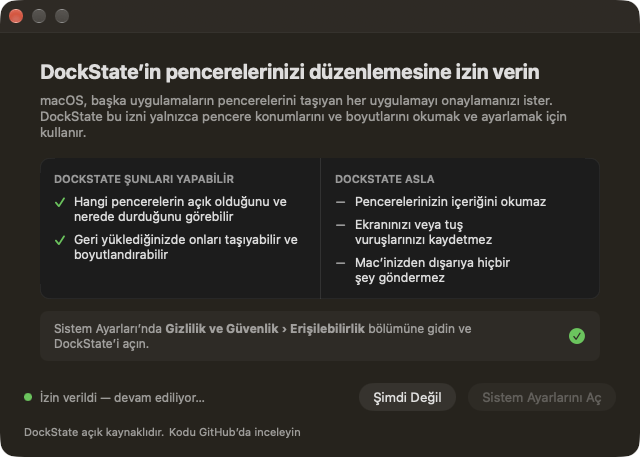
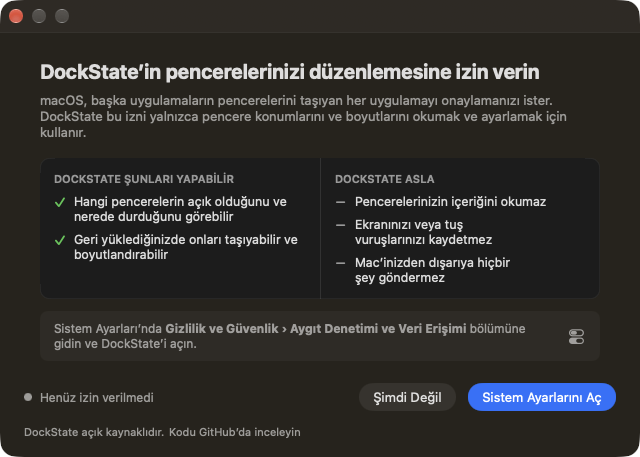
Document v0.2.0 and bump the version
- README / README.tr: in-app updates (Sparkle), what is sent and when, updating from
  0.1.x once by hand, the macOS 27 name of the Accessibility list, the Sparkle
  dependency and its license.
- BEHAVIOR: the permission at launch (and Not Now), Reset Permission, the update
  flow, verification, gentle reminders, update windows and the Dock.
- ARCHITECTURE: updates instead of the releases.atom checker; signing notes.
- TESTING: 90 tests, the update end-to-end test, new self-test step and checklist items,
  demo flags.
- RELEASING: the Sparkle key, the eighth secret, the appcast, latest-release and
  build-number rules, local signing.
- SECURITY, CONTRIBUTING: network access and the dependency.
- Permission screenshots (EN/TR) before the permission is granted.
- MARKETING_VERSION 0.2.0.

diff --git a/docs/RELEASING.md b/docs/RELEASING.md
@@ -9,8 +9,9 @@ git push origin v1.0.0
 ```
 
 The workflow runs the tests, builds a universal (Apple Silicon + Intel) app, signs and notarizes it,
-packages `DockState-<version>.dmg` with a SHA-256 checksum, and creates the GitHub release with generated
-notes. Versions with a suffix (`v1.1.0-beta.1`) are published as pre-releases.
+packages `DockState-<version>.dmg` with a SHA-256 checksum, signs the DMG for in-app updates and writes
+`appcast.xml`, and creates the GitHub release with generated notes and all three files. Versions with a
+suffix (`v1.1.0-beta.1`) are published as pre-releases.
 
 ## Why signing matters
 
@@ -21,6 +22,10 @@ DockState is meant to be downloaded from GitHub. For that to be pleasant and saf
 - **The Accessibility permission is tied to the signature.** With a stable Developer ID signature, updates keep
   the permission. Ad-hoc (unsigned) builds have a different signature every version, so users must turn the
   permission off and on again after each update.
+- **In-app updates need the update signing key.** Sparkle installs an update only if its EdDSA signature
+  matches the public key built into the installed app (`SUPublicEDKey` in `Config/Info.plist`). **If the
+  private key is lost, installed copies can't be updated from inside the app any more** — users would have to
+  download a new version by hand. Keep a backup.
 
 Both need a paid Apple Developer Program membership. Without the secrets below the workflow still runs and
 publishes `DockState-<version>-unsigned.dmg` as a **pre-release** with instructions. Nothing claims to be
@@ -59,7 +64,21 @@ base64 -i DeveloperID.p12 | pbcopy
 access **Developer**. Download `AuthKey_XXXXXXXXXX.p8` (only possible once) and note the **Key ID** and the
 **Issuer ID** shown above the list.
 
-### 4. Add the GitHub secrets
+### 4. Create the update signing key (Sparkle)
+
+Build once so Xcode fetches Sparkle (`scripts/build-release.sh`), then:
+
+```bash
+build/SourcePackages/artifacts/sparkle/Sparkle/bin/generate_keys --account dockstate
+build/SourcePackages/artifacts/sparkle/Sparkle/bin/generate_keys --account dockstate -x sparkle_private.key
+```
+
+The first command stores the private key in your login keychain and prints the public key: put it in
+`Config/Info.plist` as `SUPublicEDKey` (DockState's is already there; a new key only makes sense for a fork).
+The second exports the private key — back it up somewhere safe (a password manager) and keep it out of the
+repository (`.gitignore` ignores `*.key`).
+
+### 5. Add the GitHub secrets
 
 Repository › *Settings* › *Secrets and variables* › *Actions* › **New repository secret**:
 
@@ -72,17 +91,29 @@ Repository › *Settings* › *Secrets and variables* › *Actions* › **New re
 | `NOTARY_KEY_P8` | the full contents of `AuthKey_XXXXXXXXXX.p8`, including the BEGIN/END lines |
 | `NOTARY_KEY_ID` | the key ID |
 | `NOTARY_ISSUER_ID` | the issuer ID |
+| `SPARKLE_ED_PRIVATE_KEY` | the exported Sparkle private key from step 4 (`gh secret set SPARKLE_ED_PRIVATE_KEY < sparkle_private.key`) |
 
-Signing is used only when **all seven** are set. If only some of them are set, the release fails instead of quietly publishing an unsigned build.
+Signing is used only when **all eight** are set. If only some of them are set, the release fails instead of quietly publishing an unsigned build (or a signed one without the appcast, which would stop in-app updates).
 
-### 5. Release
+Set secrets from files with `gh secret set NAME < file` rather than in the web form: the form never shows the
+current value, so it's easy to overwrite a secret with an empty or truncated one.
+
+### 6. Release
 
 ```bash
 git tag v0.2.0 && git push origin v0.2.0
 ```
 
 Watch *Actions › Release*. The log line `Building DockState 0.2.0 (signed: true)` confirms the signed path.
-Notarization usually takes a few minutes.
+Notarization usually takes a few minutes. Afterwards the feed the app reads should name the new version:
+
+```bash
+curl -sL https://github.com/KEREM-BAS/DockState/releases/latest/download/appcast.xml | grep shortVersionString
+```
+
+To try the whole pipeline without publishing, run the workflow by hand (*Actions › Release › Run workflow*,
+or `gh workflow run release.yml --ref <branch> -f version=0.2.0-rc.1`): it creates a **draft** pre-release
+that only collaborators see. Delete it afterwards.
 
 ## Building locally
 
@@ -97,7 +128,21 @@ To sign locally, set `DEVELOPER_ID_APPLICATION` (and `APPLE_TEAM_ID`) before bot
 scripts/notarize.sh app                          # notarize + staple the app
 scripts/make-dmg.sh 1.0.0                        # package the stapled app
 scripts/notarize.sh dist/DockState-1.0.0.dmg     # notarize + staple the DMG
+SPARKLE_KEY_FILE=sparkle_private.key scripts/make-appcast.sh 1.0.0 dist/DockState-1.0.0.dmg   # dist/appcast.xml
 ```
+
+A signed build needs `BUILD_NUMBER` set higher than the last release's (Sparkle orders updates by build number).
+`make-appcast.sh` checks the DMG's signature against `SUPublicEDKey` in the app and, with `MIN_BUILD`, that the
+build number is higher than the published one; the release workflow passes the published one.
+
+`build-release.sh` removes Sparkle's XPC services (only sandboxed apps need them) and signs Sparkle's helpers
+inside out before re-signing the app; notarization rejects them otherwise. It always signs with the hardened
+runtime. Ad-hoc builds have no team ID, so they also get `Config/AdHoc.entitlements` (library validation off,
+so Sparkle.framework loads); Developer ID builds don't.
+
+Forks: `SUFeedURL` and `SUPublicEDKey` in `Config/Info.plist` point at this repository's releases and key.
+Change both (and create your own key, step 4) before publishing builds of a fork. `scripts/test-update.sh`
+tests the update path end to end without publishing anything (see [TESTING.md](TESTING.md)).
 
 with either `NOTARY_KEY_PATH`/`NOTARY_KEY_ID`/`NOTARY_ISSUER_ID` or `APPLE_ID`/`APPLE_APP_PASSWORD`/`APPLE_TEAM_ID`.
 
@@ -105,10 +150,15 @@ with either `NOTARY_KEY_PATH`/`NOTARY_KEY_ID`/`NOTARY_ISSUER_ID` or `APPLE_ID`/`
 
 [Semantic versioning](https://semver.org). The version comes from the tag (`v1.2.3` → `1.2.3`); the build
 number is the workflow run number. `Config/Version.xcconfig` holds the version used for local builds.
+Sparkle compares build numbers, so they must only grow: don't rename `release.yml` (that restarts the run
+number at 1).
 
 ## Updates
 
-DockState makes no network requests unless the user turns on **Settings › General › Check for updates
-automatically** (or presses *Check Now*). It then reads this repository's public releases feed
-(`https://github.com/KEREM-BAS/DockState/releases.atom`) at most once a day and links to the release page. Nothing
-is downloaded or installed automatically.
+The app reads `https://github.com/KEREM-BAS/DockState/releases/latest/download/appcast.xml` — the appcast
+attached to the latest stable release (drafts and pre-releases are never "latest"). Each signed release
+attaches its own `appcast.xml` with one item: version, build number, minimum macOS, the generated release
+notes and the DMG's EdDSA signature. It's created in the same step as the release, so the latest release never
+lacks it. Only a version newer than the current latest release becomes "latest" (a hotfix for an older line is
+published with `--latest=false`), and its build number must be higher than the published one. Nothing is requested before the user agrees to automatic checks or presses *Check Now* (see
+[BEHAVIOR.md](BEHAVIOR.md#updates)).

diff --git a/docs/TESTING.md b/docs/TESTING.md
@@ -2,7 +2,7 @@
 
 ## Automated (CI, no permissions needed)
 
-`cd Packages/DockStateKit && swift test` runs the Swift Testing suite (96 tests):
+`cd Packages/DockStateKit && swift test` runs the Swift Testing suite (90 tests):
 
 | Area | Covered |
 | --- | --- |
@@ -16,7 +16,6 @@
 | Planning | full reconnect, already in place, missing display policies, minimized / full-screen / excluded, excluded window never stolen, proportional resize, rearranged displays, straddling windows left alone, unreachable title bars pulled below the menu bar |
 | Execution & undo | partial failures, undo, undo respecting user-moved and closed windows, minimum-size constraints, grid-snapping windows count as in place, failed-but-changed moves undoable, windows moved twice |
 | Transfer | export/import round trip, titles stripped, never overwriting, automation not taken over, invalid files |
-| Updates | version parsing (incl. malformed tags), ordering, stable users not offered betas, Atom feed parsing, non-feed responses fail |
 
 CI also checks that `Localizable.xcstrings` is in sync with the code (`scripts/check-strings.sh`) and builds
 the universal Release app.
@@ -46,16 +45,42 @@ so the test never touches your own apps. Using a throw-away store, the self-test
 5. relaunches the app right after Undo and checks it is **not** placed (consent withdrawn);
 6. restores again, relaunches, and checks the window **is** placed;
 7. moves the window away, quits the app, restores, and checks DockState **opened the app and placed its
-   window**, and that the result reports the opened app.
+   window**, and that the result reports the opened app;
+8. checks *Reset Permission* works from inside the app (on the test app's entry only) and reports failure for an
+   app that isn't installed.
 
 `-DockStateSelfTestApp` can target another app (e.g. `com.apple.TextEdit`); steps 5–6 are skipped unless that
 app's only window is the given `-DockStateSelfTestFile` document.
+
+## In-app updates (Sparkle, end to end)
+
+```bash
+scripts/test-update.sh
+SIGN_IDENTITY="Apple Development: Your Name (ABCDE12345)" scripts/test-update.sh
+```
+
+Builds DockState Dev, makes an "old" 0.0.1 and a "new" 0.0.2 copy for a throw-away EdDSA key, serves 0.0.2
+(DMG and appcast from `scripts/make-appcast.sh`) on `localhost`, and checks that the old copy
+
+1. refuses an update signed with another key and stays 0.0.1;
+2. downloads, verifies and installs a correctly signed update, and relaunches as 0.0.2.
+
+With `SIGN_IDENTITY` the copies are signed like a release (hardened runtime, Sparkle's helpers signed, no XPC
+services), which also exercises Sparkle's team checks between the app and its installer. Nothing touches an
+installed DockState. The hooks it uses (`-DockStateUpdateTest`) exist only in Debug builds.
+
+To see Sparkle's own windows next to DockState's (window levels, the Dock), serve a newer version the same way
+and launch the Debug app with `-DockStateUpdateTest YES -DockStateUpdateTestWindows YES -SUFeedURL <feed>
+-SUEnableAutomaticChecks NO -DockStateOpen settings`; `-DockStateUpdateTestCloseAfter <seconds>` closes the
+update window again.
 
 ## Demo mode (Debug builds)
 
 `-DockStateDemo YES` replaces live data with a fictional three-display desk (no real windows are read or
 moved, nothing is saved, no apps are launched). Combine with `-DockStateOpen menubar|popover|preview|result|manage|permission|firstSave|settings|icons`
 to open a screen directly, `-DockStateTab general|restore|shortcuts|about` for Settings,
+`-DockStateDemoPermission missing|stale` for the permission step before it's granted (its buttons do nothing in demo
+mode), `-DockStateDemoUpdate 0.3.0` for the panel's update row,
 `-DockStateDemoArranged YES` for an arranged desk with nothing saved, and `-AppleLanguages "(tr)"` for Turkish.
 All README screenshots are made this way, so no real window titles end up in the repository. Check new UI in
 both languages at the window's minimum size — Turkish strings are often a third longer.
@@ -66,6 +91,9 @@ These depend on hardware and timing and can't be simulated faithfully. Check the
 to display handling, matching or restore.
 
 - [ ] First launch: onboarding, permission granted while the window waits → advances on its own
+- [ ] Launch after setup without the permission → the permission step opens; *Reset Permission* (when shown) puts
+      DockState back in the list with the switch off; turning it on continues. After *Not Now*, the next launch
+      shows only the badge
 - [ ] Permission denied ("Not Now") → warning badge, popover asks for permission, nothing moves
 - [ ] Permission revoked while running → warning appears, restore disabled; granting it again resumes what you were doing
 - [ ] Save with 1, 2 and 3 displays; quit and relaunch → workspaces kept
@@ -88,7 +116,9 @@ to display handling, matching or restore.
 - [ ] Turn off window titles → titles removed from `workspaces.json`
 - [ ] Export, then import → copies added as "Name (2)"
 - [ ] Corrupt `workspaces.json` by hand → alert, backup kept, app starts empty
-- [ ] Update check: off by default; *Check Now* → "up to date" or the new version
+- [ ] Updates: no request before setup; right after setup Sparkle asks once; *Check Now* → "up to date" or the
+      update window (above Settings, DockState in Cmd+Tab); *Install Update* relaunches the new version with the
+      Accessibility permission kept
 - [ ] Language switch English ↔ Türkçe; light and dark mode
 - [ ] Left- and right-click the real menu bar icon: the panel opens; Esc, an outside click or another click closes it
 - [ ] With Manage open: DockState is in the Dock and Cmd+Tab; after closing it, it isn't, and focus returns to the previous app

diff --git a/README.md b/README.md
@@ -65,14 +65,15 @@ Nothing moves without you saying so.
 - **You choose the automation** — per workspace: *Ask me* (notification, default), *Always restore*, or *Do nothing*. Automatic restores happen only when the display setup actually changes — never on a plain wake or unlock.
 - **Apps you open later** — after you restore a workspace, an app you open afterwards (Slack ten minutes later) goes to its saved place too. With its own Undo.
 - **Menu bar first** — stays out of the way; left- or right-click the icon. It shows a dot when windows are out of place and a badge when permission is missing. While a DockState window is open it's also in the Dock and Cmd+Tab, and its windows stay on top (Settings › General) so they don't get lost behind the apps you're arranging.
+- **Updates itself** — new versions install from inside the app with one click (or automatically, if you choose). Every update is checked against DockState's signing key before anything is replaced. Built on [Sparkle](https://sparkle-project.org).
 - **Keyboard shortcuts, if you want them** — save, restore matching workspace, undo. Off by default (global shortcuts take over the same keys in every app); record your own in Settings.
 - **English and Türkçe**, with an in-app language switch. More languages welcome.
 
 ## Privacy
 
 - **Everything stays on your Mac.** No account, no cloud, no analytics.
-- **No network requests** unless you turn on *Settings › General › Check for updates automatically* (or press *Check Now*). DockState then reads this repository's public releases feed, at most once a day, and sends nothing about you.
-- DockState needs **Accessibility** permission — the macOS permission for moving other apps' windows. It reads window positions, sizes and titles, and sets positions and sizes. It never reads window contents.
+- **No network requests until you say so.** After setup DockState asks once whether to check for updates automatically. If you agree, it reads this repository's update feed on GitHub once a day; otherwise only when you press *Check Now*. It sends nothing about you (no system profile, no cookies, no analytics) — just the request for the feed, like any download.
+- DockState needs **Accessibility** permission — the macOS permission for moving other apps' windows (on macOS 27 it's listed under *Device Control and Data Access*). It reads window positions, sizes and titles, and sets positions and sizes. It never reads window contents.
 - **No Screen Recording permission.** Previews are drawn as schematic maps, not screenshots.
 - Window titles help tell multiple windows of the same app apart. They are kept only in `~/Library/Application Support/DockState/workspaces.json`, are never logged, and can be turned off in *Settings › Restore* (existing titles are deleted and new ones aren't stored).
 - *Copy Diagnostics* (Settings › About) produces a bug-report summary without window titles, app names or serial numbers.
@@ -82,6 +83,8 @@ Nothing moves without you saying so.
 1. Download the latest **`DockState-x.y.z.dmg`** from [Releases](https://github.com/KEREM-BAS/DockState/releases).
 2. Open it and drag **DockState** to **Applications**.
 3. Launch DockState and follow the three-step setup.
+
+From then on DockState updates itself (*Settings › General*, or *DockState › Check for Updates…*). Coming from 0.1.x? Download 0.2.0 once; later versions arrive in the app.
 
 Releases built with a Developer ID are signed and notarized by Apple and open normally. Builds named `…-unsigned.dmg` are not notarized, so macOS blocks the first launch: open DockState once, then go to **System Settings › Privacy & Security** and click **Open Anyway** (on macOS 14 you can also right-click the app and choose **Open**). After updating an unsigned build, turn DockState's Accessibility permission off and on again — macOS ties it to the exact build.
 
@@ -117,7 +120,7 @@ cd DockState
 open DockState.xcodeproj        # Xcode 26 or later, then Run
 ```
 
-No dependencies to install. The app is signed to run locally by default; to keep the Accessibility permission across rebuilds, sign with your own team — see [`Config/Signing.xcconfig`](Config/Signing.xcconfig).
+Xcode fetches the one dependency, [Sparkle](https://sparkle-project.org), through Swift Package Manager. The app is signed to run locally by default; to keep the Accessibility permission across rebuilds, sign with your own team — see [`Config/Signing.xcconfig`](Config/Signing.xcconfig).
 
 Core logic lives in a Swift package and is tested without any permissions:
 
@@ -125,7 +128,7 @@ Core logic lives in a Swift package and is tested without any permissions:
 cd Packages/DockStateKit && swift test
 ```
 
-An end-to-end self-test moves a throw-away test window on your real Mac — see [docs/TESTING.md](docs/TESTING.md).
+An end-to-end self-test moves a throw-away test window on your real Mac, and `scripts/test-update.sh` installs an update end to end with a local server — see [docs/TESTING.md](docs/TESTING.md).
 
 ## Contributing
 
@@ -133,4 +136,4 @@ Bug reports, translations and pull requests are very welcome — see [CONTRIBUTI
 
 ## License
 
-[MIT](LICENSE) © Kerem Baş and DockState contributors.
+[MIT](LICENSE) © Kerem Baş and DockState contributors. DockState includes [Sparkle](https://sparkle-project.org) (MIT); its license ships in the app (*Settings › About › Acknowledgements*).

diff --git a/docs/BEHAVIOR.md b/docs/BEHAVIOR.md
@@ -36,6 +36,7 @@ resolution. Waking from sleep, unlocking, or the Dock moving on the same desk is
 | Displays already connected when DockState starts (login, relaunch) | Not a change: badge only, nothing moves |
 | A notification's *Restore* after the displays changed again | Opens the preview instead of restoring blindly |
 | Accessibility permission revoked | Menu bar shows a warning badge; nothing is moved; undo history is cleared |
+| DockState starts without the permission (after setup) | The permission step opens, instead of only the badge — unless you chose *Not Now* there; then only the badge, until you allow it |
 
 "Always restore" is an explicit per-workspace opt-in. Every restore — automatic or not — can be undone.
 Automatic restores never launch apps.
@@ -69,6 +70,23 @@ Automatic restores never launch apps.
 - *Settings › General › Keep DockState windows on top* (on by default) keeps those windows above other apps'
   windows. Onboarding never floats (System Settings must stay visible while you grant permission), links open
   in front of them, and the result card and toasts stay above them.
+- The update window, alerts and open/save panels count as DockState windows too: they keep DockState in the
+  Dock and Cmd+Tab while they're open (also when minimized), and clicking the Dock icon brings them forward.
+  While one is on screen, DockState's other windows stop floating, so it stays in front; links it opens (release
+  notes, *Version History*) open in front of DockState, which floats again once you use it.
+
+## The Accessibility permission
+
+- macOS lists it under *Privacy & Security › Accessibility*; on macOS 27 the list is called *Device Control
+  and Data Access*. The permission step names the one your Mac uses.
+- macOS keeps one entry per app and ties it to the signature it approved. After running another copy with the
+  same bundle ID (an unsigned build, an older version) the switch can look on while DockState isn't trusted.
+  When that looks likely — DockState was trusted before, you asked in an earlier session, or nothing happened
+  10 seconds after asking — the permission step offers **Reset Permission**: it removes the entry (no password
+  needed) and adds this copy back, so you only turn the switch on again. If macOS refuses, it explains how to
+  remove the entry with – and add it again with +.
+- Development builds are *DockState Dev* (`com.kerembas.DockState.debug`), with their own entry, settings and
+  workspaces, so they never take over an installed DockState's permission.
 
 ## Apps opened later
 
@@ -112,9 +130,25 @@ combinations used by macOS or by another DockState action are refused.
 
 ## Updates
 
-DockState makes no network requests unless *Check for updates automatically* is on (then at most once a day) or
-you press *Check Now*. It reads the public releases feed of this repository and links to the release page; it
-never downloads or installs anything by itself. Users of a stable version are only told about stable versions.
+DockState updates itself with [Sparkle](https://sparkle-project.org).
+
+- **Nothing is requested before you agree.** Right after setup DockState asks once: *Check for updates
+  automatically?* If yes, it reads `appcast.xml` from this repository's latest release once a day; if no, only
+  when you press *Check Now* (Settings › General) or *DockState › Check for Updates…*. No system profile is sent,
+  and no cookies are stored or sent, so checks can't be linked to each other. (If DockState starts with the
+  permission step on screen, the question waits for a later launch; *Check Now* works anyway.) Users who had
+  turned on the old update check in 0.1.x aren't asked again; their choice carries over.
+- **Finding an update** shows what's new and *Install Update*, *Remind Me Later* or *Skip This Version*.
+  When a daily check finds one while you're busy, it doesn't pop up behind other apps: the menu bar panel shows
+  *Update to DockState x.y.z…* and a notification appears (if notifications are allowed).
+- **Download and install updates automatically** (off by default, only with automatic checks) downloads in the
+  background and installs when you quit DockState or restart your Mac.
+- **Every update is verified** before it's installed: its EdDSA signature must match the key built into
+  DockState (checked before the DMG is even opened), and the new app's code signature must be valid. A
+  tampered or wrongly signed update is refused and nothing changes.
+- Only stable releases are offered (pre-releases are never the "latest" release the feed comes from), and only
+  a newer version becomes the latest release. Pre-release builds don't update themselves; Settings says so.
+- Updating keeps the Accessibility permission: releases are signed with the same Developer ID.
 
 ## Not supported (by design, without private APIs)
 

diff --git a/docs/ARCHITECTURE.md b/docs/ARCHITECTURE.md
@@ -6,7 +6,7 @@ Reliability lives in a pure-Swift core that is unit-tested; the parts that touch
 ```
 ┌──────────────────────── DockState.app (UI) ────────────────────────┐
 │ Status item + panel · Onboarding · Preview · Result card · Manage  │
-│ Settings · Notifications · Shortcuts · Login item · Update check   │
+│ Settings · Notifications · Shortcuts · Login item · Updates        │
 │                AppModel (@MainActor, @Observable)                  │
 └───────────────┬─────────────────────────────────┬──────────────────┘
                 │                                 │
@@ -18,14 +18,16 @@ Reliability lives in a pure-Swift core that is unit-tested; the parts that touch
    ─ RestoreExecutor + undo
    ─ AutoRestorePolicy, LatePlacementPolicy
    ─ WorkspaceStore, WorkspaceTransfer
-   ─ UpdateCheck (semver, Atom feed)
+
+   Sparkle (Swift package, app target only): in-app updates (AppUpdater)
 ```
 
 ## Key decisions
 
 **Accessibility API, no sandbox.** Moving other apps' windows is only possible through the Accessibility
 API (`AXUIElement`), which sandboxed apps cannot use. DockState is therefore distributed outside the Mac App
-Store with Developer ID + notarization and Hardened Runtime.
+Store with Developer ID + notarization and Hardened Runtime. Release builds always have the hardened runtime;
+ad-hoc ones (no team ID) add only `com.apple.security.cs.disable-library-validation` so Sparkle.framework loads.
 
 **No Screen Recording.** Window positions come from Accessibility; previews are schematic maps. Asking for
 screen recording just to draw thumbnails would be a far bigger privacy ask than the feature is worth.
@@ -134,5 +136,12 @@ settle, around a restore, when an app launches (only that app is polled while it
 the user switches apps while a workspace is recognized (at most every 15 s, to keep the menu bar dot honest).
 Accessibility calls run off the main thread. A 1 s timer runs only while onboarding waits for permission.
 
-The only network request is the opt-in update check: GitHub's `releases.atom` feed (no account, no
-identifiers, no API rate limit), at most once a day, re-evaluated hourly and retried once after a failure.
+The only network access is updating, through [Sparkle](https://sparkle-project.org) (`AppUpdater`). Nothing
+is requested before the user agrees: the updater starts only after onboarding, and Sparkle then asks once
+whether to check automatically (`updaterShouldPromptForPermissionToCheck`). The feed is the `appcast.xml`
+attached to the latest GitHub release (`SUFeedURL` in `Config/Info.plist`), read at most once a day. Updates
+are verified with EdDSA before extraction (`SUVerifyUpdateBeforeExtraction`) and by code signature. Because
+DockState lives in the menu bar, an update found in the background is shown as a gentle reminder (a row in the
+panel and a notification) instead of a window behind other apps. Sparkle's XPC services aren't shipped: they
+exist for sandboxed apps. Sparkle uses the app's shared cookie storage, so DockState turns cookies off
+(`HTTPCookieStorage.shared.cookieAcceptPolicy = .never`) to keep checks unlinkable.

diff --git a/SECURITY.md b/SECURITY.md
@@ -1,8 +1,10 @@
 # Security Policy
 
-DockState runs locally, has no network code and stores data only in
-`~/Library/Application Support/DockState/`. It uses the Accessibility permission to read and set window
-positions and sizes.
+DockState runs locally and stores data only in `~/Library/Application Support/DockState/`. It uses the
+Accessibility permission to read and set window positions and sizes. Its only network access is the update
+check (Sparkle), which reads the appcast attached to this repository's latest release — once a day if the
+user agreed to automatic checks, otherwise only on *Check Now*. Updates are verified with an EdDSA signature
+(the public key is built into the app) and their code signature before they are installed.
 
 If you find a security issue (for example a way to misuse DockState's Accessibility access, or a problem in
 the release/signing pipeline), please report it privately via

diff --git a/CONTRIBUTING.md b/CONTRIBUTING.md
@@ -5,7 +5,8 @@ an issue to discuss it — "does one thing well" is a feature too.
 
 ## Setup
 
-- macOS 14+ and Xcode 26 or later (what CI uses). No other tools or package managers needed.
+- macOS 14+ and Xcode 26 or later (what CI uses). Xcode fetches the one dependency, Sparkle, through Swift
+  Package Manager; no other tools needed.
 - `open DockState.xcodeproj` and Run. Debug builds are **DockState Dev** (`DockStateDev.app`, bundle ID
   `com.kerembas.DockState.debug`) with their own settings, workspaces and Accessibility entry, so they can run
   next to an installed DockState without affecting it.
